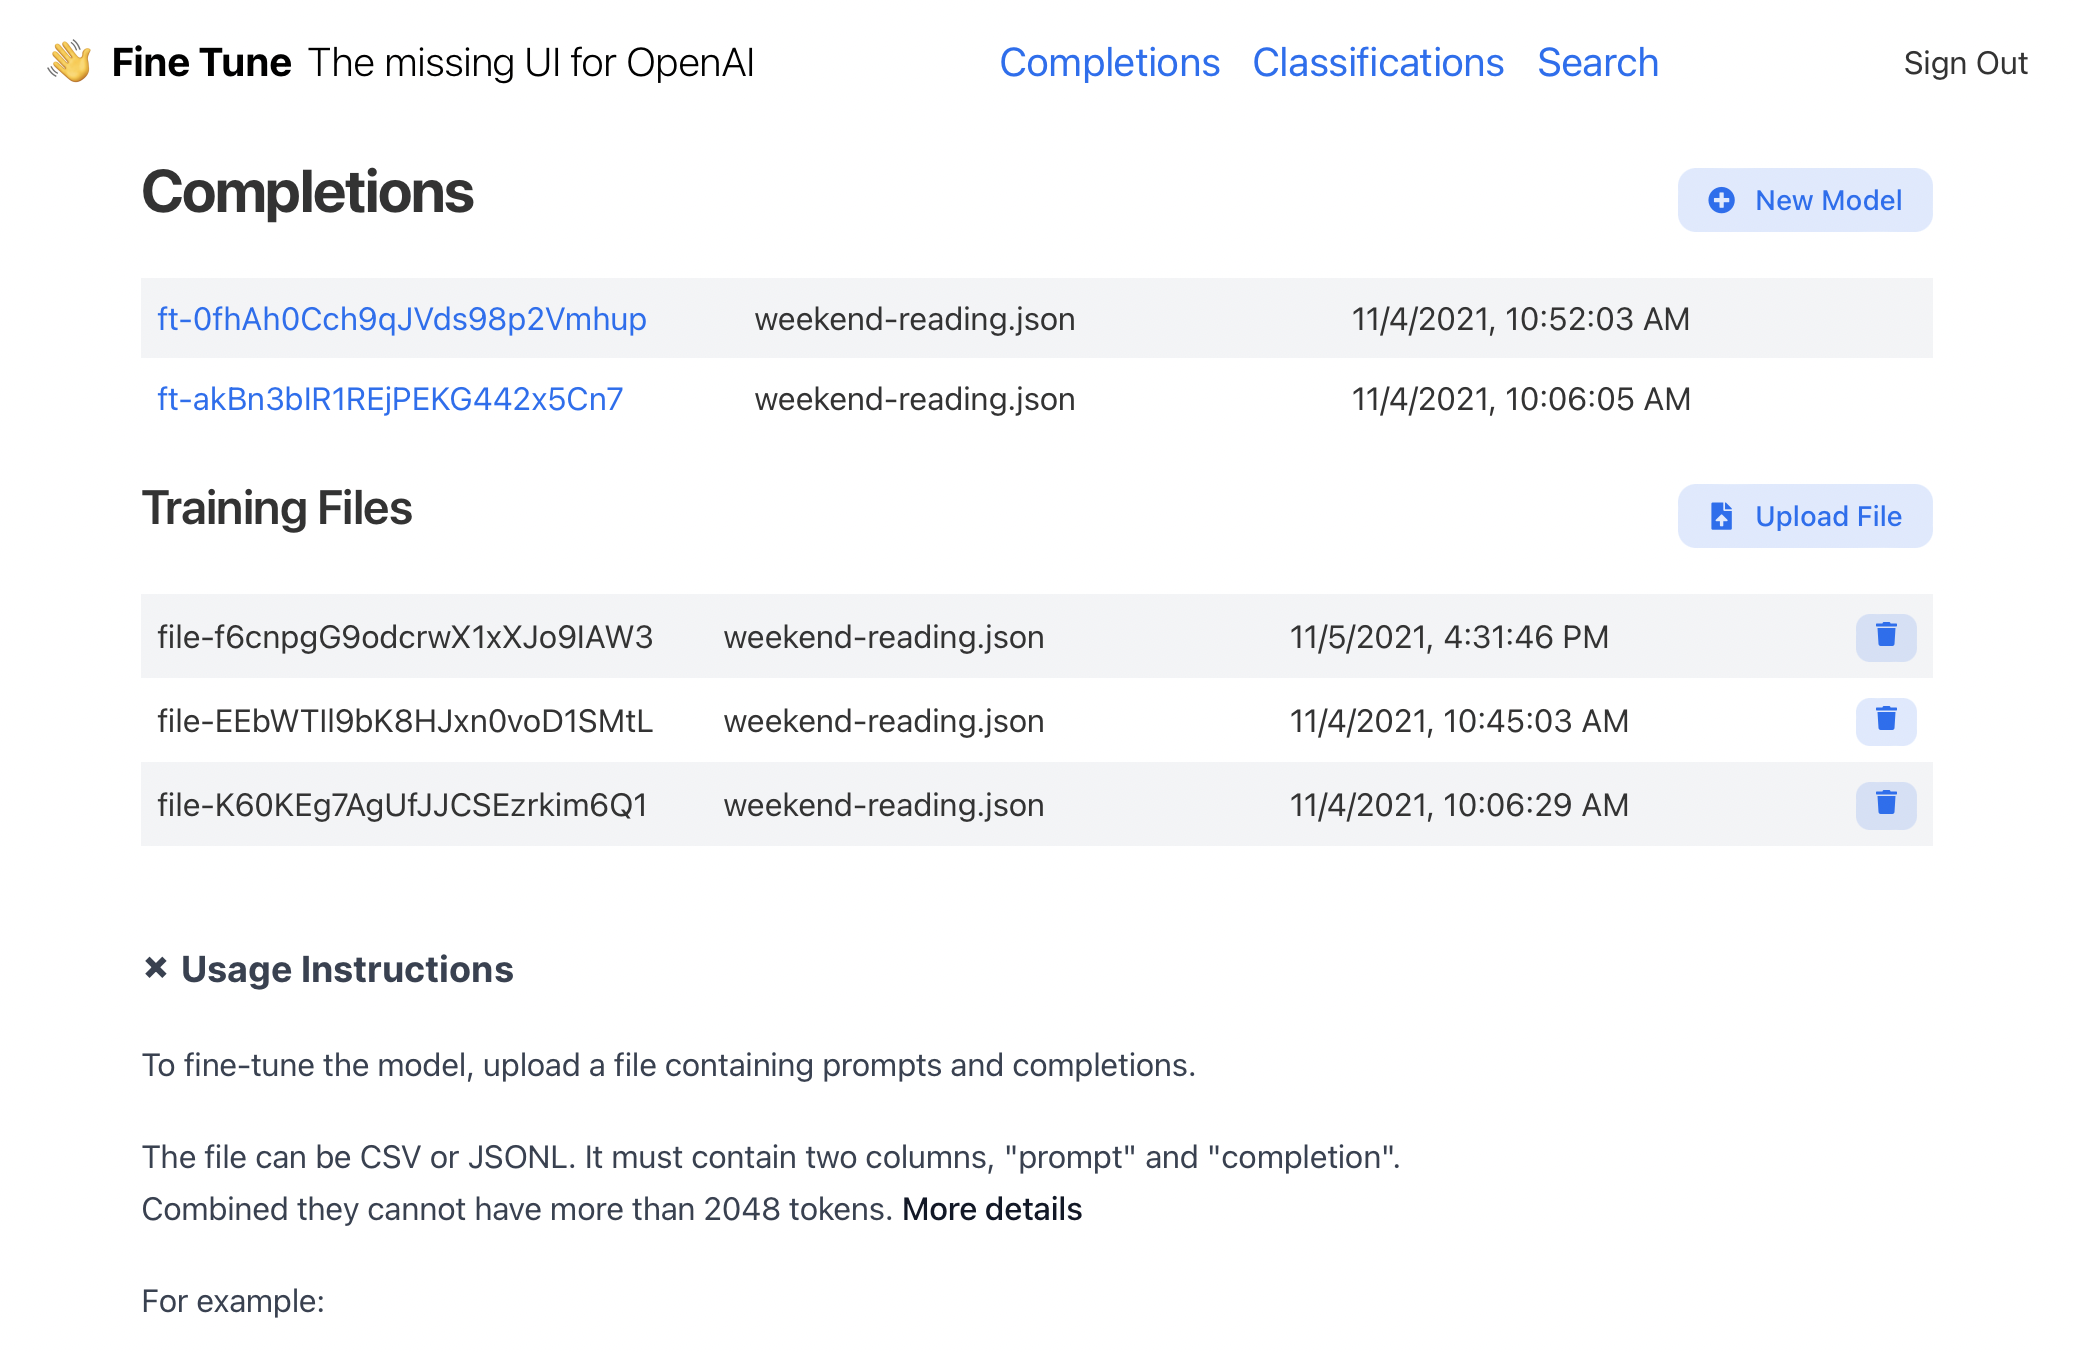
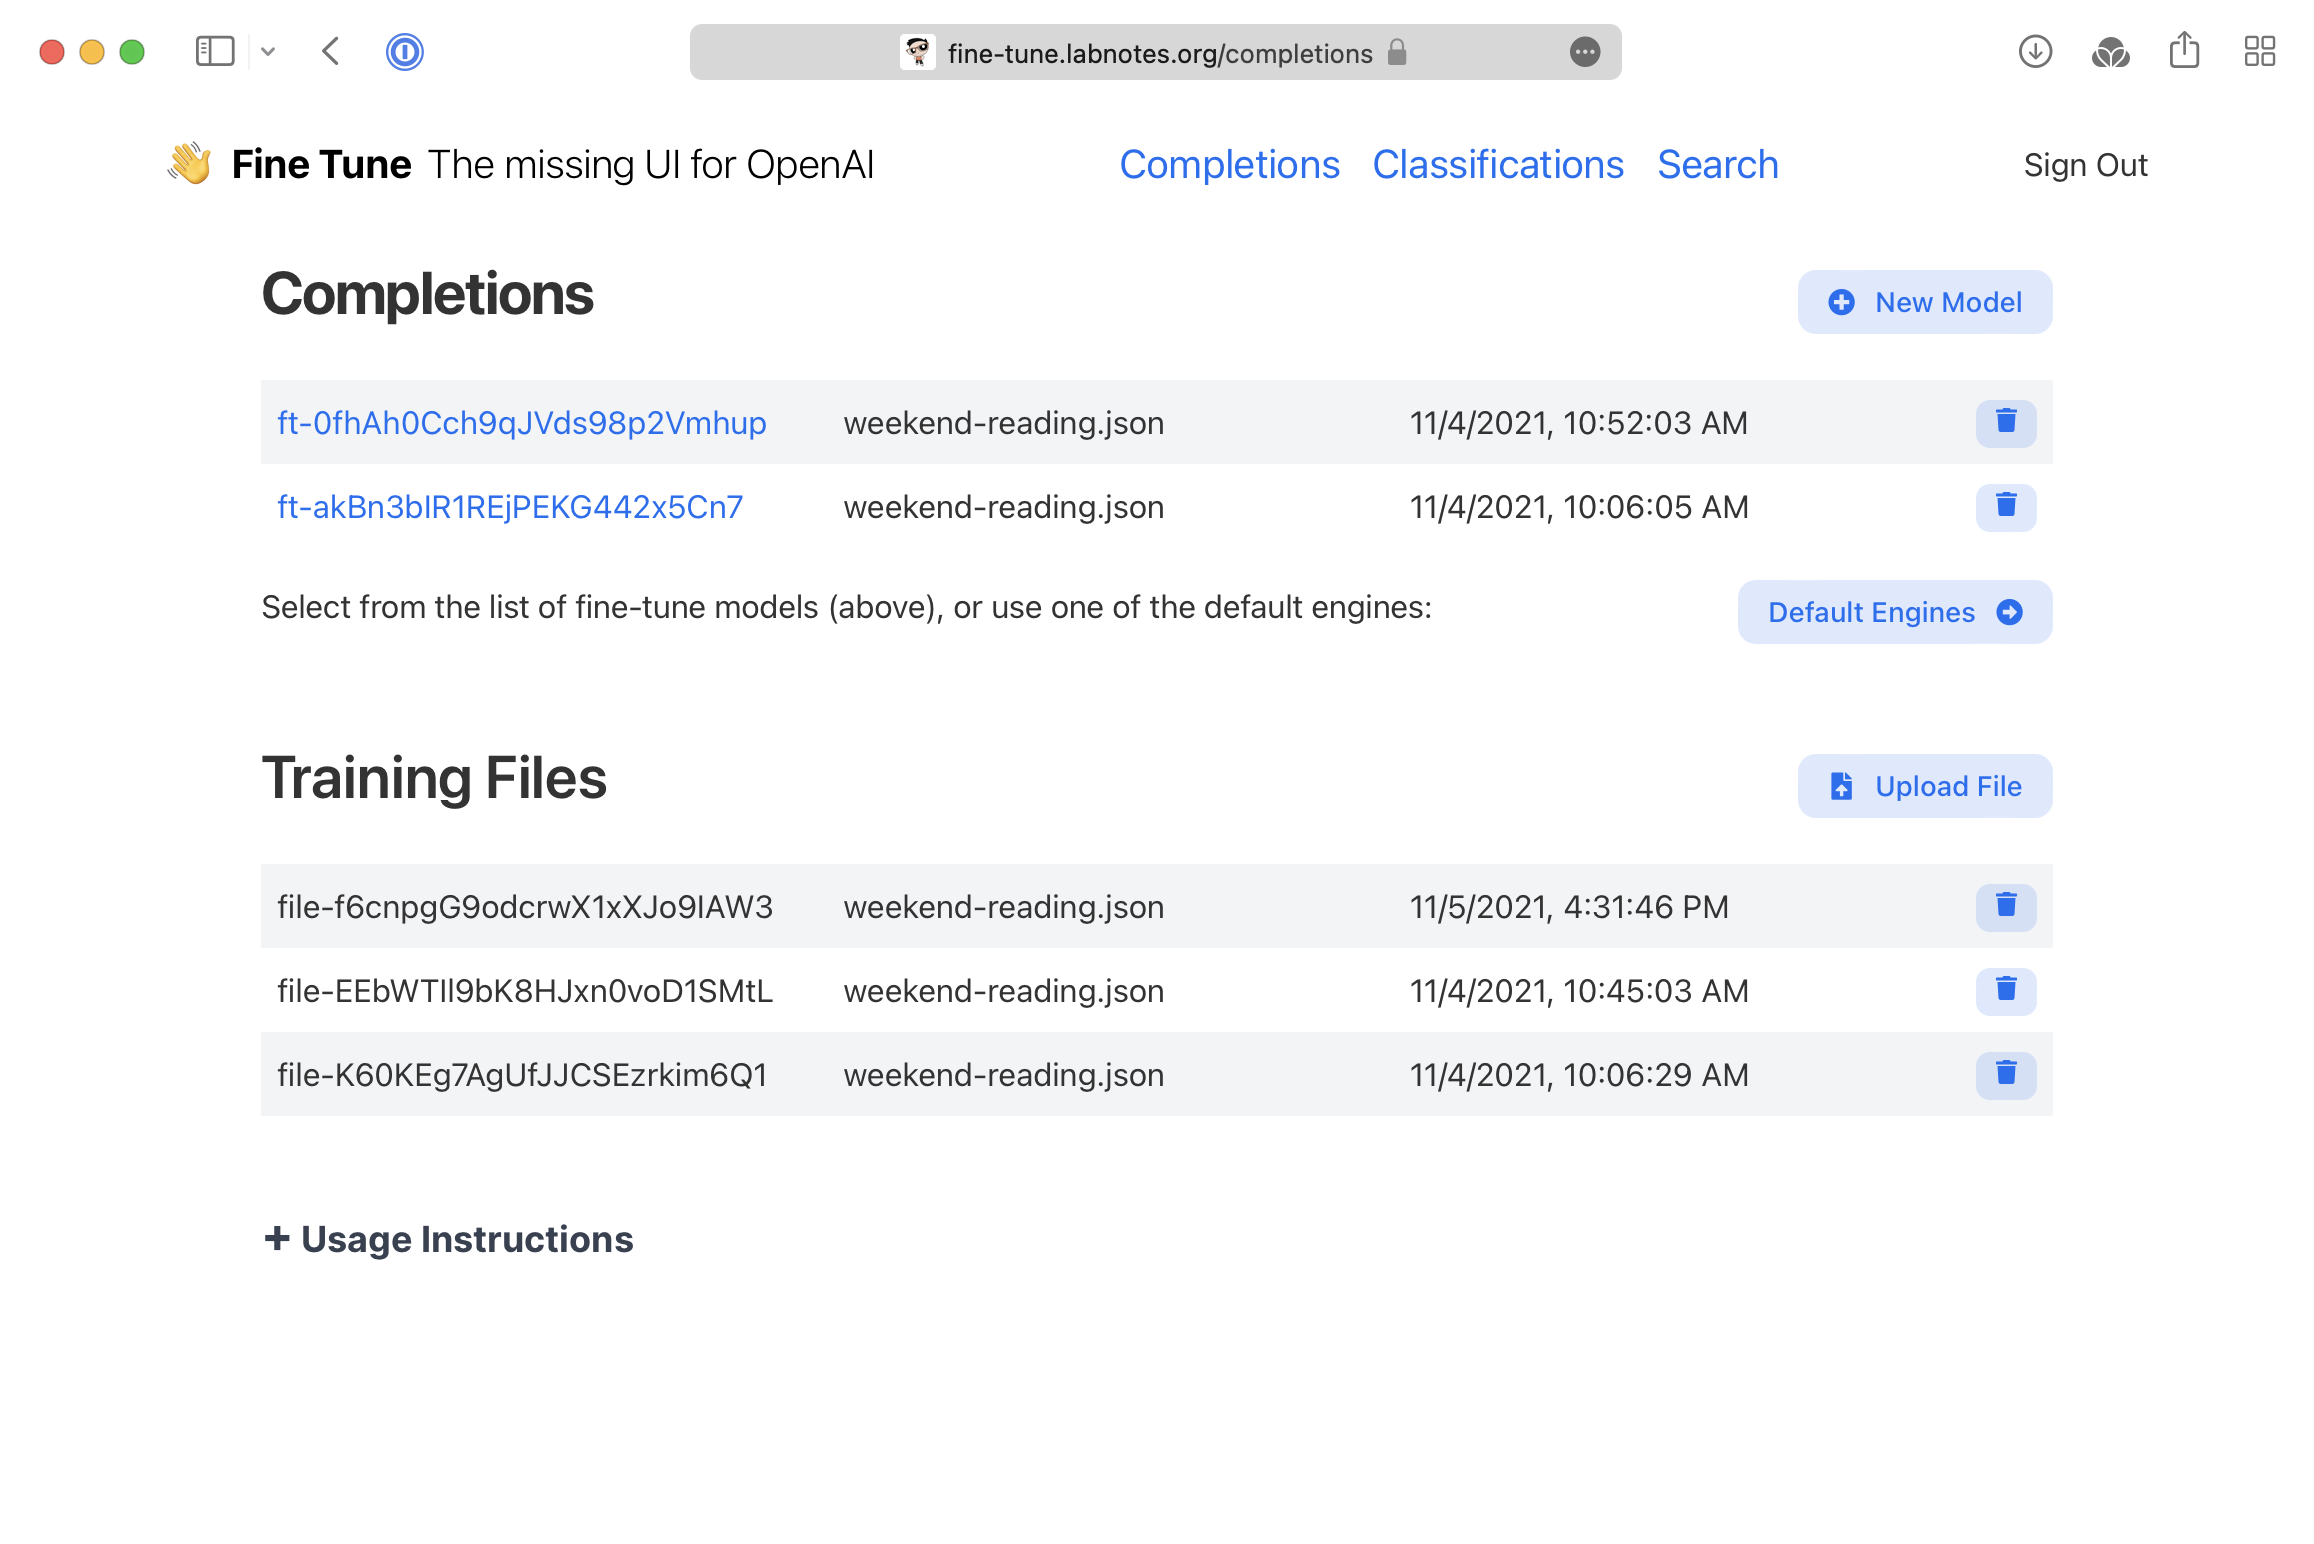
Updated screenshot

diff --git a/components/completions/CompletionList.tsx b/components/completions/CompletionList.tsx
@@ -33,7 +33,7 @@ export default function ClassificationList() {
         <p className="flex justify-between">
           <span>
             Select from the list of fine-tune models (above), or use one of the
-            default engines:
+            available engines:
           </span>
           <Button
             auto
@@ -42,7 +42,7 @@ export default function ClassificationList() {
             iconRight={<FontAwesomeIcon icon={faArrowAltCircleRight} />}
             onClick={() => router.push("/completions/adhoc")}
           >
-            Default Engines
+            Built-in Model
           </Button>
         </p>
       </section>
